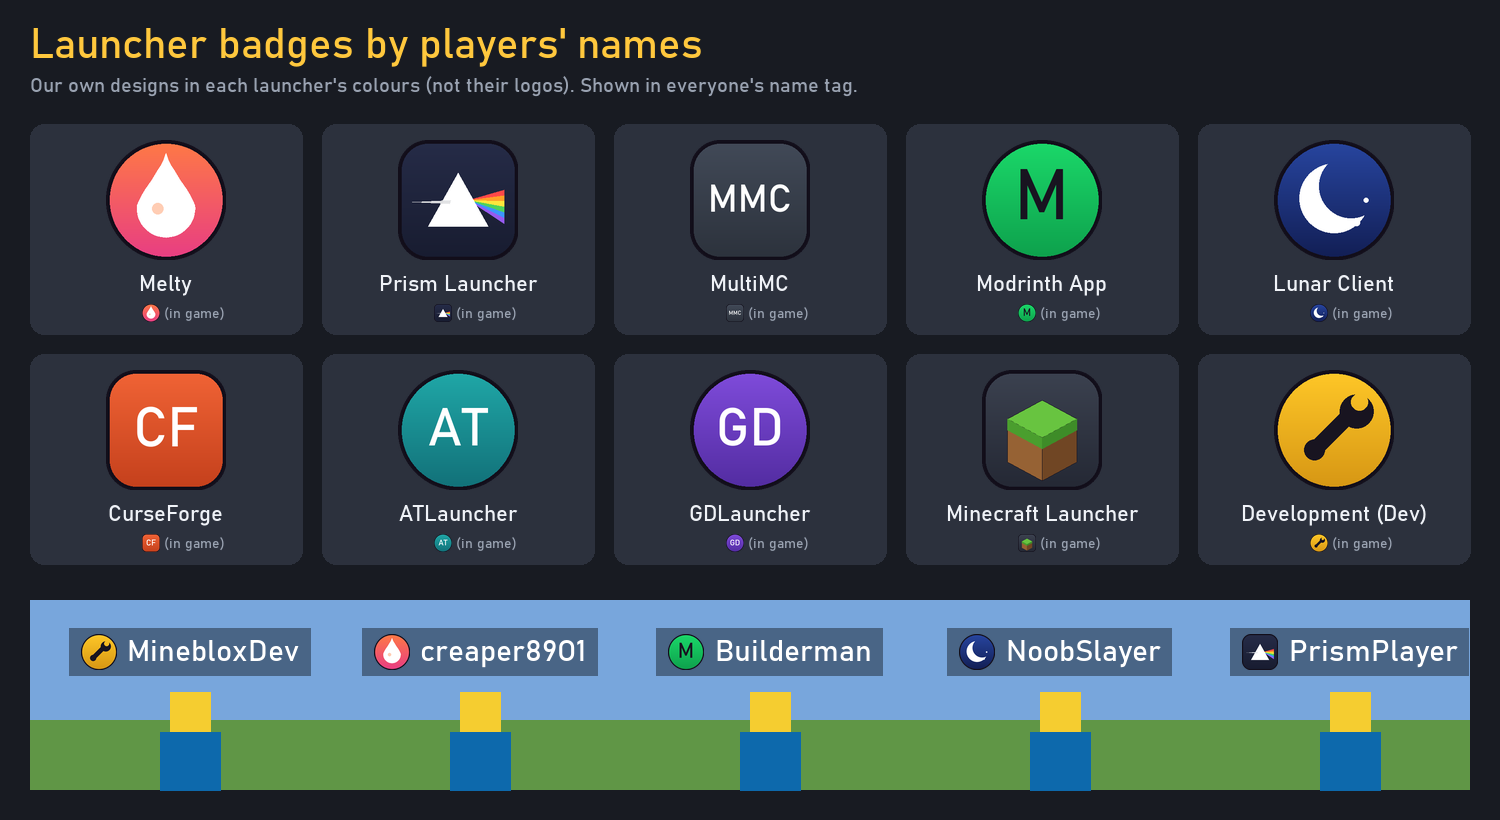
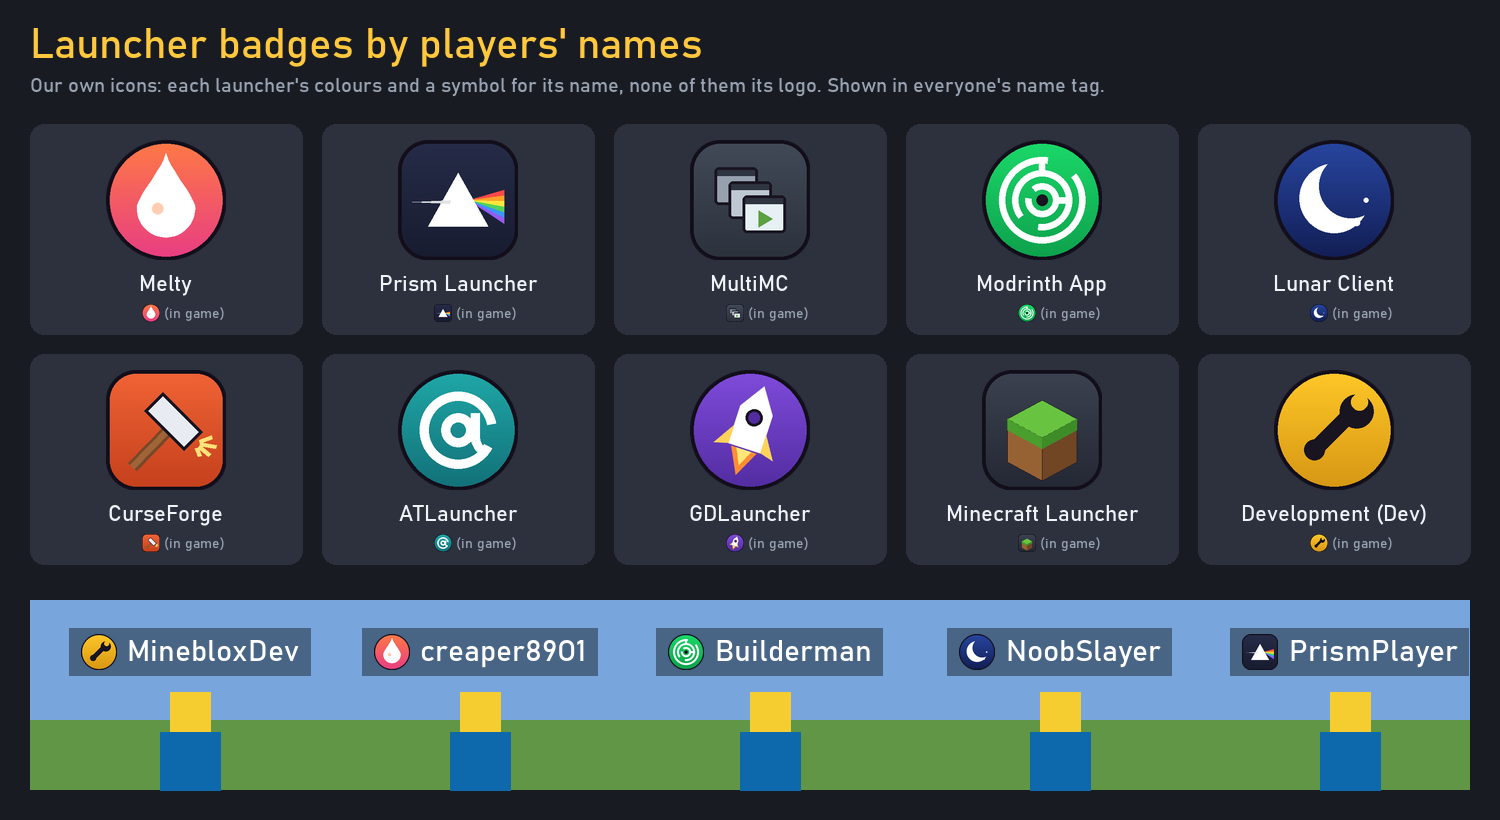
2.0.0-test6.2: launcher badges as symbols, no letters (labyrinth, forge hammer, window stack, @ swirl, rocket)

diff --git a/fabric/tools/branding/make_launcher_badges.py b/fabric/tools/branding/make_launcher_badges.py
@@ -1,6 +1,8 @@
 """The launcher badges by players' names (2.0.0-test6.2, creator: "Icons next to players names based on the launcher
 they're using ... If launched via Melty's prism then show Melty icon"): one small badge per launcher, drawn here (our own
-designs in each launcher's colours with a simple symbol or its initials, not the launchers' logos), as a bitmap font so
+designs in each launcher's colours, each a symbol for its name, none of them the launchers' logos: 2.0.0-test6.2, creator:
+"create your own icon for each where players can easily notice what launcher it is without being confused OR infringing
+copywrite"), as a bitmap font so
 the name tag can carry one as a character (assets/minebloxroyale/font/launchers.json: U+E000 on, in BADGES' order;
 LauncherBadge.java has the same order).
 
@@ -86,12 +88,23 @@ def badge(bid, top, bottom):
             d.polygon([(150, 128), (226, y0 - 6), (226, y0 + 6)], fill=c + (255,))
         d.polygon([(64, 184), (128, 70), (192, 184)], fill=WHITE)
         d.polygon([(30, 132), (112, 128), (110, 136)], fill=(255, 255, 255, 220))
-    elif bid == "multimc":
+    elif bid == "multimc":  # a stack of game windows: many instances
         im, d = base(top, bottom, round_=False)
-        letters(d, "MMC", 82)
-    elif bid == "modrinth":
+        for k, off in enumerate((-30, 0, 30)):
+            x0, y0 = S / 2 + off, S / 2 + off
+            shade = (150 + 40 * k, 160 + 40 * k, 175 + 35 * k, 255)
+            d.rounded_rectangle((x0 - 46, y0 - 40, x0 + 46, y0 + 40), radius=10, fill=shade, outline=INK, width=6)
+            d.rectangle((x0 - 40, y0 - 34, x0 + 40, y0 - 22), fill=(46, 52, 64, 255))  # (its title bar)
+        d.polygon([(S / 2 + 18, S / 2 + 22), (S / 2 + 18, S / 2 + 58), (S / 2 + 48, S / 2 + 40)], fill=(92, 160, 64, 255))  # (a play mark)
+    elif bid == "modrinth":  # a labyrinth: rings with gaps (mod + labyrinth)
         im, d = base(top, bottom)
-        letters(d, "M", 150, INK, dy=-4)
+        c = S / 2
+        for r, gap in ((92, 300), (64, 120), (36, 210)):
+            box = (c - r, c - r, c + r, c + r)
+            d.arc(box, start=gap + 22, end=gap + 360 - 22, fill=WHITE, width=14)
+        d.line([(c + 36, c), (c + 64, c)], fill=WHITE, width=14)  # (walls joining the rings)
+        d.line([(c, c - 64), (c, c - 92)], fill=WHITE, width=14)
+        d.ellipse((c - 12, c - 12, c + 12, c + 12), fill=INK)  # (the middle, where you're going)
     elif bid == "lunar":  # a crescent moon
         im, d = base(top, bottom)
         moon = Image.new("L", (S, S), 0)
@@ -101,15 +114,40 @@ def badge(bid, top, bottom):
         im.paste(WHITE, (0, 0), moon)
         for x, y, r in ((176, 176, 7), (196, 128, 5)):
             d.ellipse((x - r, y - r, x + r, y + r), fill=WHITE)
-    elif bid == "curseforge":
+    elif bid == "curseforge":  # a forge hammer striking sparks
         im, d = base(top, bottom, round_=False)
-        letters(d, "CF", 118)
-    elif bid == "atlauncher":
+        u = (0.7071, -0.7071)  # (along the handle, up and right)
+        v = (0.7071, 0.7071)  # (across it: the head's length)
+        hx, hy = 134, 120  # (where the handle meets the head)
+        d.line([(56, 206), (hx, hy + 6)], fill=(120, 72, 40, 255), width=26)
+        d.line([(56, 206), (hx, hy + 6)], fill=(160, 100, 56, 255), width=14)
+        cx, cy = hx + u[0] * 14, hy + u[1] * 14
+        L, Wd = 60, 28
+        corners = [(cx + v[0] * a + u[0] * b, cy + v[1] * a + u[1] * b) for a, b in ((-L, -Wd), (L, -Wd), (L, Wd), (-L, Wd))]
+        d.polygon(corners, fill=(232, 236, 242, 255), outline=INK, width=6)
+        tip = (cx + v[0] * (L + 6), cy + v[1] * (L + 6))  # (the striking face, lower right: sparks fly from it)
+        for ang, ln in ((10, 46), (40, 40), (-20, 38), (70, 30)):
+            a_ = math.radians(ang)
+            d.line([(tip[0] + 10 * math.cos(a_), tip[1] + 10 * math.sin(a_)), (tip[0] + ln * math.cos(a_), tip[1] + ln * math.sin(a_))], fill=(255, 226, 120, 255), width=9)
+    elif bid == "atlauncher":  # an "@" swirl: the "at" in its name
         im, d = base(top, bottom)
-        letters(d, "AT", 112)
-    elif bid == "gdlauncher":
+        c = S / 2
+        d.arc((c - 82, c - 82, c + 82, c + 82), start=28, end=350, fill=WHITE, width=20)
+        d.ellipse((c - 36, c - 36, c + 36, c + 36), outline=WHITE, width=20)
+        tail = [(c + 36, c - 36)] + [(c + 36 + 22 * (1 - math.cos(t)), c + 10 + 34 * math.sin(t)) for t in [math.pi / 2 * i / 8 for i in range(9)]]
+        tail[1:1] = [(c + 36, c + 10)]
+        d.line(tail, fill=WHITE, width=20, joint="curve")
+    elif bid == "gdlauncher":  # a rocket taking off
         im, d = base(top, bottom)
-        letters(d, "GD", 112)
+        r = Image.new("RGBA", (S, S), (0, 0, 0, 0))
+        rd = ImageDraw.Draw(r)
+        rd.polygon([(128, 30), (164, 84), (164, 168), (92, 168), (92, 84)], fill=WHITE)  # (the body and nose)
+        rd.polygon([(92, 128), (62, 176), (92, 168)], fill=(255, 210, 90, 255))  # (fins)
+        rd.polygon([(164, 128), (194, 176), (164, 168)], fill=(255, 210, 90, 255))
+        rd.ellipse((110, 82, 146, 118), fill=(82, 44, 160, 255), outline=INK, width=6)  # (a window)
+        rd.polygon([(100, 172), (156, 172), (128, 228)], fill=(255, 140, 50, 255))  # (the flame)
+        rd.polygon([(112, 172), (144, 172), (128, 206)], fill=(255, 230, 120, 255))
+        im.alpha_composite(r.rotate(-18, center=(S / 2, S / 2), resample=Image.BICUBIC))
     elif bid == "minecraft":  # a grass block (as the Mineblox Royale icon draws it)
         im, d = base((60, 66, 80), (36, 40, 52), round_=False)
         c, h = (S / 2, 64), 62
@@ -154,7 +192,7 @@ def preview(pics, out):
     im = Image.new("RGB", (W, 820), (24, 27, 34))
     d = ImageDraw.Draw(im)
     d.text((30, 24), "Launcher badges by players' names", font=F(42), fill=(255, 200, 61))
-    d.text((30, 76), "Our own designs in each launcher's colours (not their logos). Shown in everyone's name tag.", font=F(20), fill=(154, 163, 178))
+    d.text((30, 76), "Our own icons: each launcher's colours and a symbol for its name, none of them its logo. Shown in everyone's name tag.", font=F(20), fill=(154, 163, 178))
     for i, (p, b) in enumerate(zip(pics, BADGES)):
         x, y = 30 + (i % 5) * 292, 124 + (i // 5) * 230
         d.rounded_rectangle((x, y, x + 272, y + 210), radius=14, fill=(44, 49, 61))
